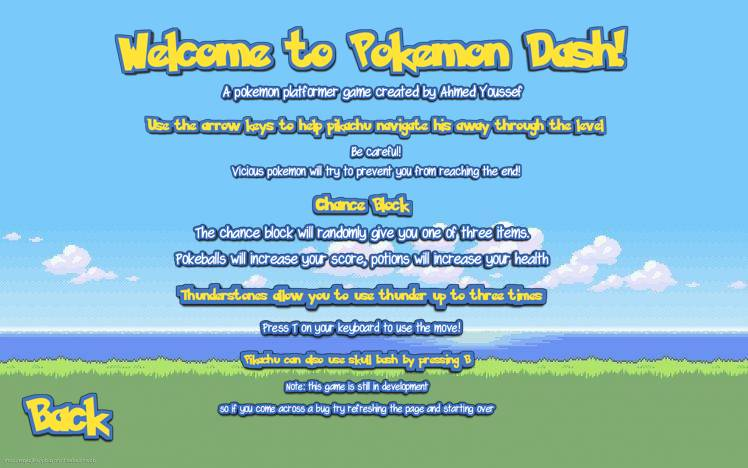
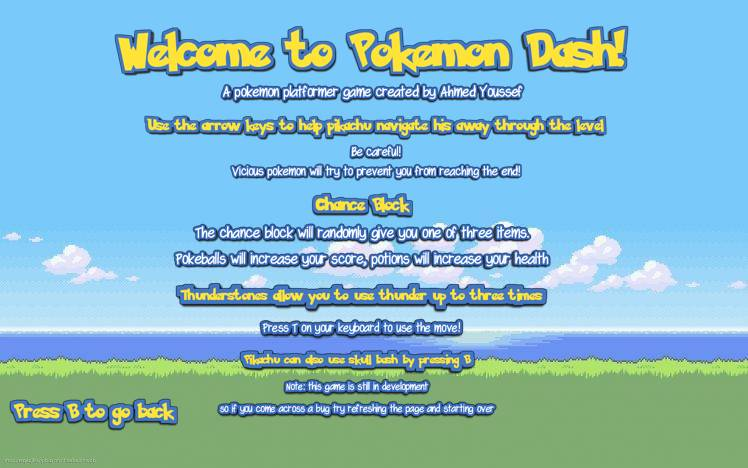
updated menu

Changed region(s): [[0.0, 0.8376, 0.246, 0.9573]]

diff --git a/public/js/main.js b/public/js/main.js
@@ -89,7 +89,7 @@ async function loadGame(canvas, state) {
 
  async function loadStartMenu(canvas, state) {
      const context = canvas.getContext('2d');
-     const bgImage = await loadImage("/img/pokemondash.jpeg");  
+     const bgImage = await loadImage("/img/pokemondashkeys.jpg");  
      const helpImage = await loadImage("/img/howtoplay.jpeg");
      let sound = new Audio("/sounds/opening.mp3");
       drawStartMenu();
@@ -98,6 +98,7 @@ async function loadGame(canvas, state) {
       let helpButton = new Button(336,539, 315, 347 );
       let backButton = new Button(25, 138, 464, 513);
       let highScoreButton = new Button(345, 546, 368, 544);
+      let helpMenuVisible = false;
 
      function Button(xLeft, xRight, yTop, yBottom) {
          this.xLeft = xLeft;
@@ -118,42 +119,64 @@ async function loadGame(canvas, state) {
     
      function clickedScreen(event) {            
          let mouseX = event.pageX - canvas.offsetLeft;
-         let mouseY = event.pageY - canvas.offsetTop;   
-         console.log(mouseX, mouseY);    
-         
-        if(startButton.checkClicked(mouseX, mouseY)) {            
-            canvas.width = 256;
-            canvas.height = 240; 
-            game_state.state = gamestate.PLAYING;
-            document.removeEventListener("click", clickedScreen);
-            loadGame(canvas,state);
-            if(!sound.paused) sound.pause();
+         let mouseY = event.pageY - canvas.offsetTop;  
+        
+        // if(startButton.checkClicked(mouseX, mouseY)) {            
+        //     canvas.width = 256;
+        //     canvas.height = 240; 
+        //     game_state.state = gamestate.PLAYING;
+        //     document.removeEventListener("click", clickedScreen);
+        //     loadGame(canvas,state);
+        //     if(!sound.paused) sound.pause();
            
-        } 
-        else if(helpButton.checkClicked(mouseX, mouseY)) {           
-            context.clearRect(0, 0, canvas.width, canvas.height);
-            context.drawImage(helpImage, 0, 0);
-        }
+        // } 
+        // else if(helpButton.checkClicked(mouseX, mouseY)) {           
+        //     context.clearRect(0, 0, canvas.width, canvas.height);
+        //     context.drawImage(helpImage, 0, 0);
+        // }
 
-        else if (backButton.checkClicked(mouseX, mouseY)) {          
-            drawStartMenu();
-        }  
-        else if (highScoreButton.checkClicked(mouseX, mouseY)) {
-            alert("sorry, not available yet!");
-        }      
-        else{
+        // else if (backButton.checkClicked(mouseX, mouseY)) {          
+        //     drawStartMenu();
+        // }  
+        // else if (highScoreButton.checkClicked(mouseX, mouseY)) {
+        //     alert("sorry, not available yet!");
+        // }      
+        //else{
             if(sound.paused) {
                 sound.play();            
             } else {
                 sound.pause();
             }
-        }
+        //}
         
       
         
    
     }
+
+    function pressedKey(event) {
+       if(event.code === "KeyP") {
+        canvas.width = 256;
+        canvas.height = 240; 
+        game_state.state = gamestate.PLAYING;
+        document.removeEventListener("keyup", clickedScreen);
+        loadGame(canvas,state);
+        if(!sound.paused) sound.pause();       
+       }
+       else if (event.code === "KeyH") {
+        context.clearRect(0, 0, canvas.width, canvas.height);
+        context.drawImage(helpImage, 0, 0);
+        helpMenuVisible = true;
+       } else if (event.code === "KeyB" && helpMenuVisible) {
+           helpMenuVisible = false;
+        drawStartMenu();
+       }
+       else if (event.code === "KeyS") {
+        alert("sorry, high scores not available yet!");
+       }
+    }
     document.addEventListener("click", clickedScreen);
+    document.addEventListener("keyup", pressedKey);
 }
 
 const canvas = document.getElementById('screen');
